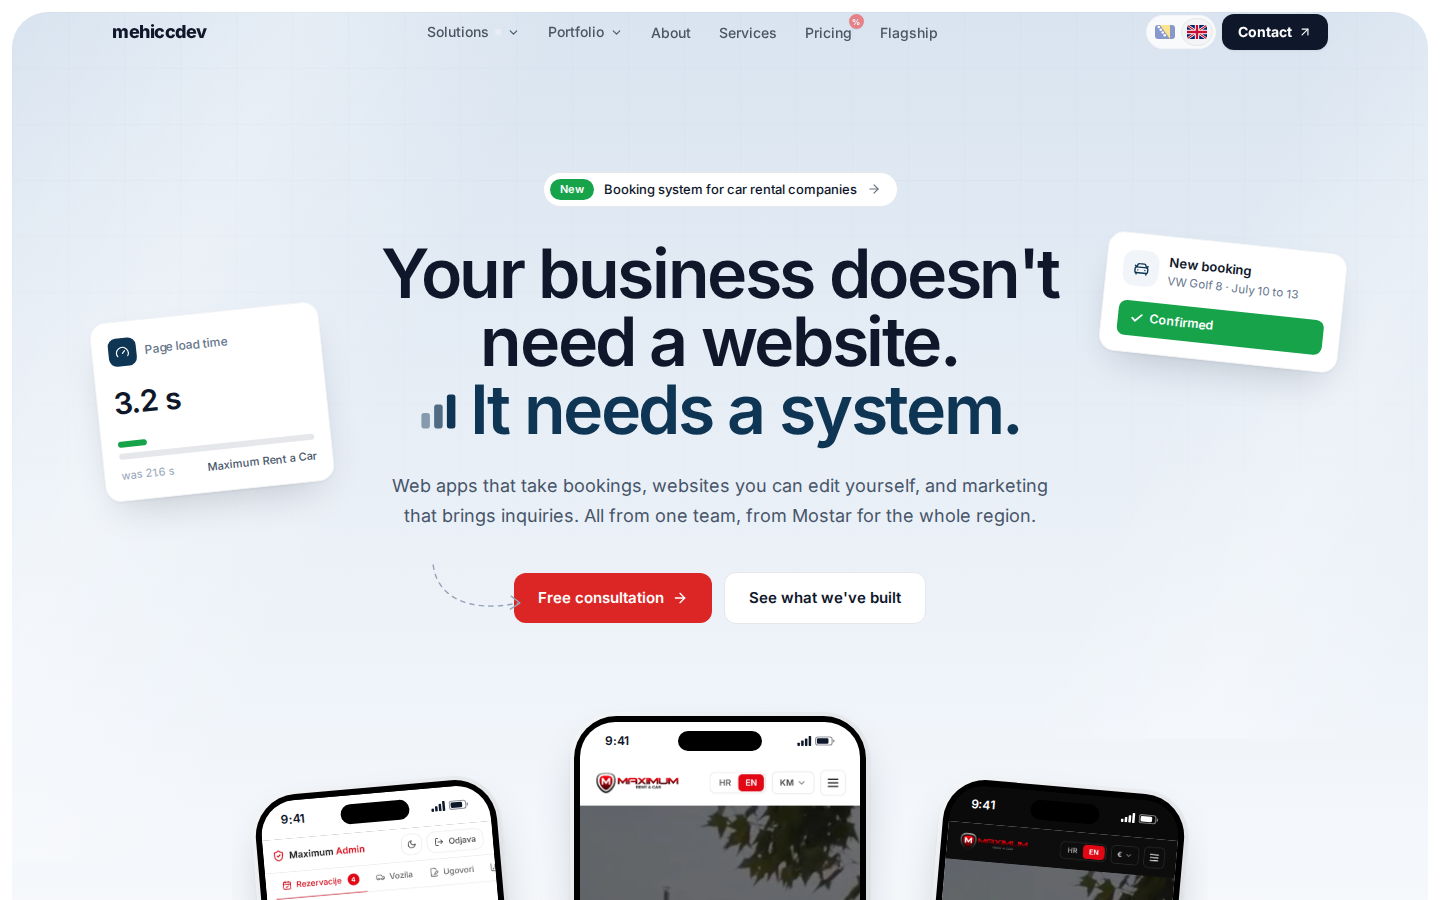
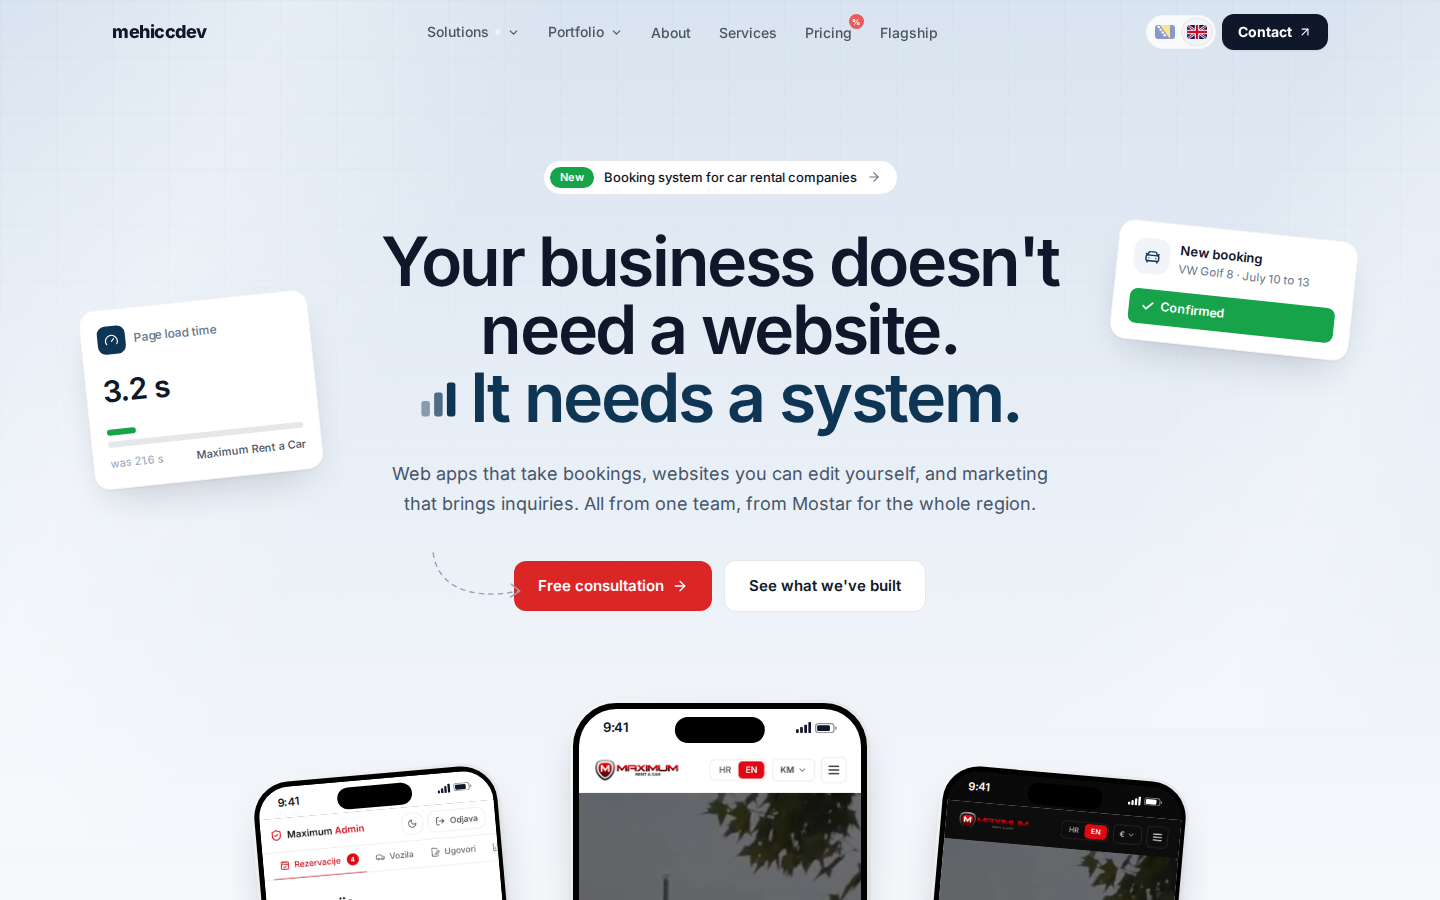
fix: hero od ivice do ivice i razmjerni iphone mockupi

diff --git a/components/sections/Hero.tsx b/components/sections/Hero.tsx
@@ -89,26 +89,50 @@ function Phone({ src, alt, bar = "light", priority = false }: {
   src: string; alt: string; bar?: "light" | "dark"; priority?: boolean;
 }) {
   const ink = bar === "dark" ? "#FFFFFF" : "#0F172A";
+
+  /* SVE MJERE SU U cqw, odnosno u postocima ŠIRINE OVOG TELEFONA.
+     Ranije su uglovi bili fiksni (oko 46 px). Na mobitelu je telefon širok
+     svega ~110 px, pa je takav ugao zauzimao skoro pola širine i oblik je
+     postajao ovalan, kao jaje. Pravi iPhone ima ugao oko 14 posto širine,
+     okvir oko 1 posto, a ostrvo oko trećinu širine. Kad je sve izraženo u
+     odnosu na širinu, telefon izgleda isto na svakoj veličini.
+
+     Spoljni div je "kontejner" (container-type), a cqw unutar njega znači
+     "jedan posto širine tog kontejnera". */
   return (
-    <div
-      className="rounded-[2.9rem] p-[4px]"
-      style={{ background: "linear-gradient(145deg, #F4F5F7 0%, #D9DCE1 45%, #EEF0F3 100%)", boxShadow: PHONE_SHADOW }}
-    >
-      <div className="rounded-[2.65rem] bg-black p-[6px]">
-        <div className="relative overflow-hidden rounded-[2.2rem]">
-          {/* statusna traka */}
-          <div className={`relative flex items-center justify-between px-[9%] h-[30px] sm:h-[38px] ${bar === "dark" ? "bg-[#0A0A0A]" : "bg-white"}`}>
-            <span className="text-[9px] sm:text-[12px] font-semibold tracking-tight" style={{ color: ink }}>9:41</span>
-            <span aria-hidden className="absolute top-[7px] sm:top-[9px] left-1/2 -translate-x-1/2 w-[30%] h-[15px] sm:h-[20px] rounded-full bg-black" />
-            <span className="flex items-center gap-[3px]" aria-hidden>
-              <svg width="15" height="10" viewBox="0 0 17 12" className="w-[11px] sm:w-[15px]"><g fill={ink}><rect x="0" y="8" width="3" height="4" rx=".8"/><rect x="4.5" y="5.5" width="3" height="6.5" rx=".8"/><rect x="9" y="3" width="3" height="9" rx=".8"/><rect x="13.5" y="0" width="3" height="12" rx=".8"/></g></svg>
-              <svg width="20" height="10" viewBox="0 0 26 12" className="w-[14px] sm:w-[20px]"><rect x=".75" y=".75" width="21.5" height="10.5" rx="3" fill="none" stroke={ink} strokeOpacity=".45" strokeWidth="1.5"/><rect x="2.5" y="2.5" width="15" height="7" rx="1.6" fill={ink}/><rect x="23.5" y="4" width="1.8" height="4" rx=".9" fill={ink} fillOpacity=".45"/></svg>
-            </span>
-          </div>
+    <div style={{ containerType: "inline-size" }}>
+      {/* srebrni okvir */}
+      <div
+        style={{
+          borderRadius: "15.5cqw",
+          padding: "1.1cqw",
+          background: "linear-gradient(145deg, #F4F5F7 0%, #D9DCE1 45%, #EEF0F3 100%)",
+          boxShadow: PHONE_SHADOW,
+        }}
+      >
+        {/* crni bezel */}
+        <div className="bg-black" style={{ borderRadius: "14.4cqw", padding: "1.9cqw" }}>
           {/* ekran */}
-          <div className="relative aspect-[1179/2556] bg-white">
-            <Image src={src} alt={alt} fill unoptimized priority={priority}
-                   className="object-cover object-top" />
+          <div className="relative overflow-hidden" style={{ borderRadius: "12.5cqw" }}>
+            {/* statusna traka */}
+            <div
+              className={`relative flex items-center justify-between ${bar === "dark" ? "bg-[#0A0A0A]" : "bg-white"}`}
+              style={{ height: "12.5cqw", paddingInline: "8cqw" }}
+            >
+              <span className="font-semibold tracking-tight" style={{ color: ink, fontSize: "4.4cqw" }}>9:41</span>
+              {/* dinamičko ostrvo */}
+              <span aria-hidden className="absolute left-1/2 -translate-x-1/2 rounded-full bg-black"
+                    style={{ top: "2.6cqw", width: "32%", height: "8.6cqw" }} />
+              <span className="flex items-center" style={{ gap: "1.2cqw" }} aria-hidden>
+                <svg viewBox="0 0 17 12" style={{ width: "5.2cqw" }}><g fill={ink}><rect x="0" y="8" width="3" height="4" rx=".8"/><rect x="4.5" y="5.5" width="3" height="6.5" rx=".8"/><rect x="9" y="3" width="3" height="9" rx=".8"/><rect x="13.5" y="0" width="3" height="12" rx=".8"/></g></svg>
+                <svg viewBox="0 0 26 12" style={{ width: "7.4cqw" }}><rect x=".75" y=".75" width="21.5" height="10.5" rx="3" fill="none" stroke={ink} strokeOpacity=".45" strokeWidth="1.5"/><rect x="2.5" y="2.5" width="15" height="7" rx="1.6" fill={ink}/><rect x="23.5" y="4" width="1.8" height="4" rx=".9" fill={ink} fillOpacity=".45"/></svg>
+              </span>
+            </div>
+            {/* sadržaj ekrana */}
+            <div className="relative aspect-[1179/2556] bg-white">
+              <Image src={src} alt={alt} fill unoptimized priority={priority}
+                     className="object-cover object-top" />
+            </div>
           </div>
         </div>
       </div>
@@ -135,13 +159,12 @@ export function Hero() {
   });
 
   return (
-    <section className="hero-light relative bg-white px-2 sm:px-3 pt-2 sm:pt-3">
+    <section className="hero-light relative bg-white">
       {/* ── PANEL ───────────────────────────────────────────────────────────
-          Hero stoji u zaobljenom panelu uvučenom od ivica ekrana, kao na
-          referenci. Pozadina je meki preliv iz svijetle nijanse naše plave
+          Pozadina heroja ide od ivice do ivice ekrana. Pozadina je meki preliv iz svijetle nijanse naše plave
           (#0F3554) u bijelo, a preko nje dva blaga dijagonalna odsjaja.
           Navigacija je na vrhu providna, pa se stapa s panelom. */}
-      <div className="relative overflow-hidden rounded-[26px] sm:rounded-[36px]"
+      <div className="relative overflow-hidden"
            style={{ background: "linear-gradient(180deg, #D9E4F0 0%, #E7EEF6 34%, #F4F7FB 68%, #FFFFFF 100%)" }}>
 
         {/* dijagonalni odsjaji, kao staklo na referenci */}
